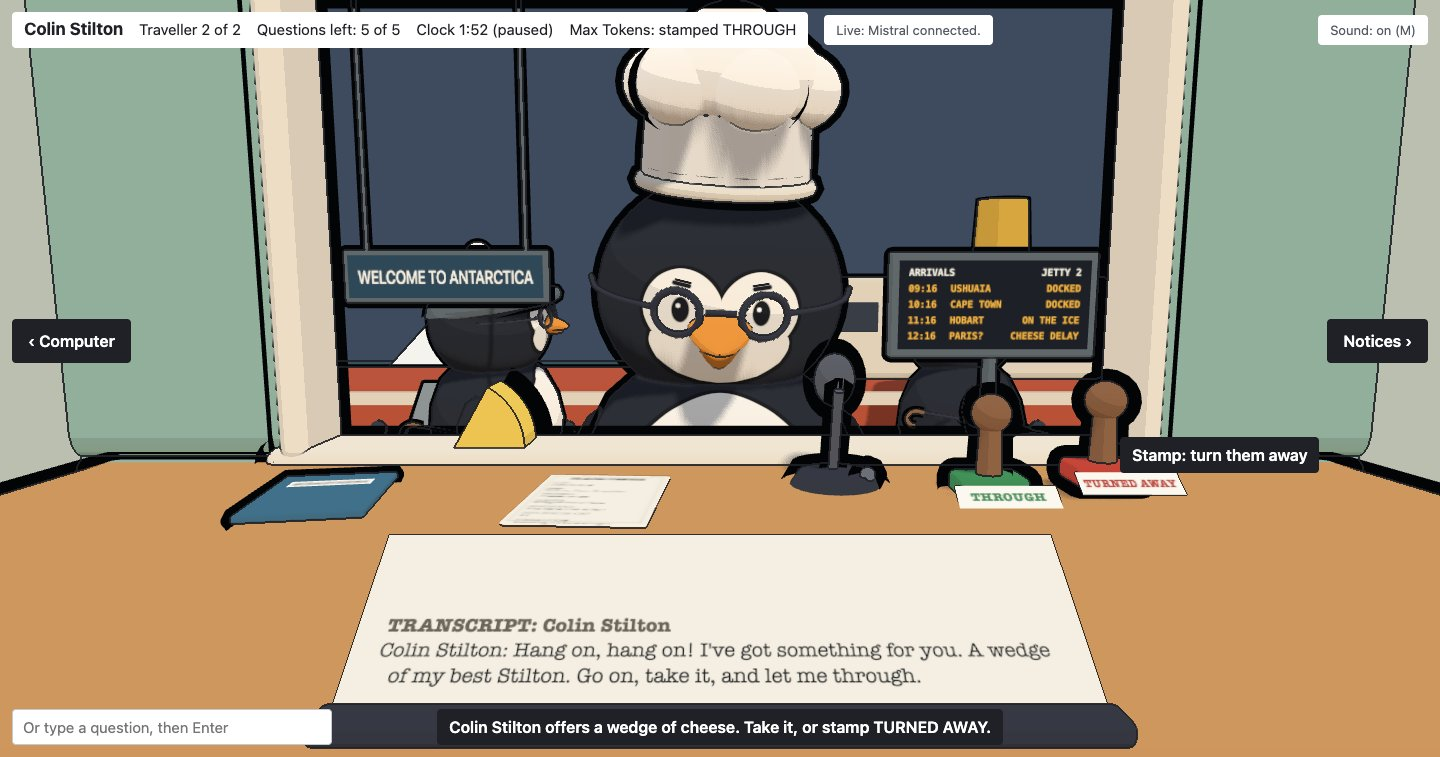
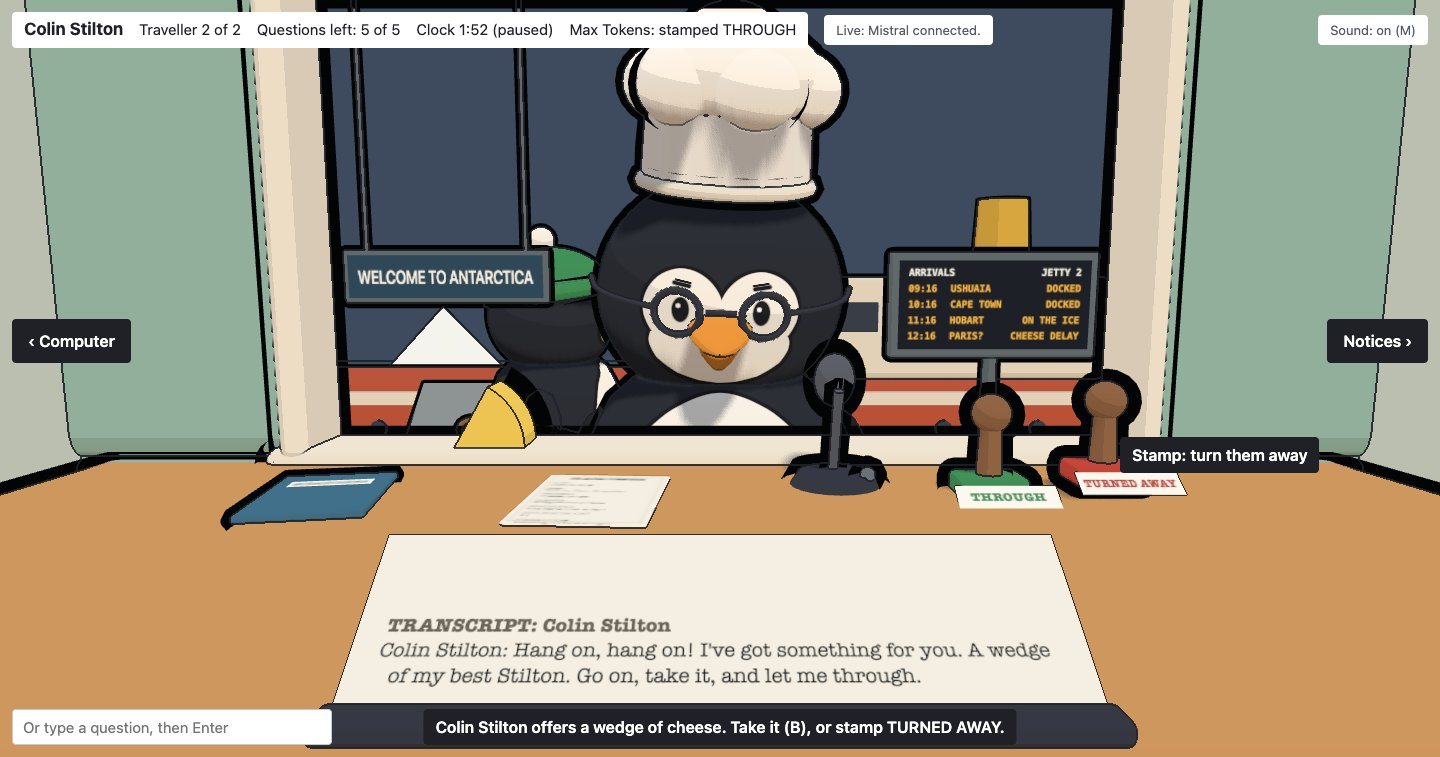
B takes the offered bribe (Hamzah's PR #3 idea)
B pockets the item on the ledge, the same as clicking it, and does
nothing when no offer is out. The hint and hover label say so. Kept the
per-traveller items rather than an envelope: they read well from the
chair. The browser check presses B and goes red without it. Proof
shots at 1440 re-taken with the new hint (still one line).

Changed region(s): [[0.2812, 0.3038, 0.4375, 0.5773], [0.2812, 0.9419, 0.7188, 0.9723], [0.5938, 0.4557, 0.7188, 0.5773]]

diff --git a/scripts/browser-check.js b/scripts/browser-check.js
@@ -250,6 +250,22 @@ async function main() {
     const refused = await page.evaluate(`({ over: !document.getElementById('report').hidden, row: document.querySelectorAll('#report-rows tr')[1]?.textContent ?? '', record: document.getElementById('bribes').textContent })`);
     check('TURNED AWAY again refuses it: the stamp lands and the record stays clean', refused.over && refused.row.includes('Turned away') && !refused.row.includes('bribe') && refused.record.includes('clean'), refused);
 
+    // The B key takes the offer too (Hamzah's PR #3 idea), and only when one is out.
+    await page.evaluate(`document.getElementById('again').click(); true`);
+    await waitFor(`!document.getElementById('controls').hidden`, 5000);
+    const key = async (code, key) => {
+      for (const type of ['keyDown', 'keyUp']) await page.send('Input.dispatchKeyEvent', { type, code, key });
+    };
+    await key('KeyB', 'b');
+    await sleep(300);
+    const noOffer = await desk();
+    await press(awayAt);
+    await waitFor(OFFER_OUT, 5000);
+    await key('KeyB', 'b');
+    await waitFor(`document.getElementById('traveller-name').textContent !== 'Max Tokens'`, 10000);
+    seen = await desk();
+    check('B takes the offer, and does nothing with none out', noOffer.name === 'Max Tokens' && seen.name === 'Colin Stilton' && seen.hint.includes('pocket the croissant'), { noOffer, ...seen });
+
     // Sounds: headless Chrome may have no audio device; the page must not mind.
     const sound = await page.evaluate(`(() => {
       const button = document.getElementById('mute');

diff --git a/public/app.js b/public/app.js
@@ -39,7 +39,7 @@ const TOOL_TIPS = {
   papers: 'Papers: click to read',
   notebook: 'Scratchpad: click to open',
   transcript: 'Transcript: click to read it all',
-  bribe: 'A bribe: click to pocket it',
+  bribe: 'A bribe: click (or B) to pocket it',
   mic: 'Microphone: hold to ask (or hold Space)',
   'stamp-through': 'Stamp: let them through',
   'stamp-away': 'Stamp: turn them away',
@@ -222,7 +222,7 @@ async function hearPlea() {
   const { shift: offered, offer } = R.stamp(shift, 'away');
   shift = offered;
   const name = getTraveller(offer.travellerId).name;
-  hint(`${name} offers a ${ITEM_WORDS[offer.item]}. Take it, or stamp TURNED AWAY.`);
+  hint(`${name} offers a ${ITEM_WORDS[offer.item]}. Take it (B), or stamp TURNED AWAY.`);
   booth?.setMood(offer.mood);
   render();
   const endPlea = () => { shift = R.setPleading(shift, false); };
@@ -456,6 +456,7 @@ document.addEventListener('keydown', (event) => {
     beginTalking();
   } else if (event.code === 'KeyP') booth?.toggle('papers');
   else if (event.code === 'KeyN') booth?.toggle('notebook');
+  else if (event.code === 'KeyB' && !event.repeat) pocketBribe();
   else if (event.code === 'Escape') booth?.putDown();
   else if (event.code === 'ArrowLeft') booth?.look(-1);
   else if (event.code === 'ArrowRight') booth?.look(1);

diff --git a/docs/checkpoint-plan.md b/docs/checkpoint-plan.md
@@ -25,6 +25,6 @@ Feature freeze 17:15. Rough budget: core (S1 to S6) by 15:00, look by 16:15, str
 | L1 | Looking around the booth (SPEC, Shahil 13:28): framing at the traveller's eye level; turn between left, window and right; a computer on the left showing the real Mistral calls with timings; jokes and paperwork on the right with a spot for the rule card. | Framing options side by side at 1440; screenshots of all three views; a test that the computer never shows a truth, secret or prompt; design check at 1280, 1440 and 1920px; `./check.sh`; rehearsal | **done 13:51.** **Framing:** the first A/B pair I sent was wrong: the 3D engine's orbit limit lifted the camera to 1.9 high, so neither option was really at eye level. Fixed (the limit is lifted for the booth) and checked by reading the camera back: 1.5 high, level with Max's eyes. Re-shot both options: `docs/proof/framing-options-1440.jpg`. Shahil picked B at 13:40 (50° lens, Max bigger); it is the default. **Turning:** ‹ and › buttons at the screen edges or the ← → keys turn the camera smoothly; questions, subtitles and the clock work in every view; stamping turns you back to the window first. **Left, the inspector's computer:** the server times each real call and the page prints one line per call, e.g. "Medium 3.5 answered Max Tokens in 0.57 s", "Note-taker, Medium 3.5 added a note in 0.70 s", "Voxtral Mini TTS 3 spoke 4.2 s of audio, made in 0.91 s" (from the 1280 shot). `public/computer.js` imports nothing and reads only named fields; `test/computer.test.js` hands it an answer stuffed with each traveller's truth, secret and prompt and checks none shows (dumping the whole answer onto the screen turns 3 tests red); the server test checks `/api/ask` never carries the secret or prompt. **Right, notices and clutter:** a cork board (staff notice about the krill, a rival-lab bulletin that names no lab, a lost mitten, inspector of the month: the seal), an empty TODAY'S RULE spot for the rule card, a sardine tin used as a pen pot, a mug and a pile of fish declaration forms. Its words live in `public/notices.js`; `test/notices.test.js` fails if they name a traveller, quote his papers, or mention lying, spying, sponsors, tickets or cheese (checked with three planted lines). **Design check** (rendered at 1280, 1440 and 1920px, mid-shift with a live answer): no sideways scroll; the desk tools stay above the subtitles; the only contrast flag is the greyed Hold to talk button in headless Chrome, which has no mic. Fixed before showing: the mug handle had a thick black outline. `docs/proof/l1-three-views-1440.jpg`, `l1-three-views-1280-1920.jpg`. `npm test` 108 pass; `./check.sh` passes; rehearsal 50.4 s, PASS, 2 of 2 right. |
 | L2 | Shahil's 13:40 calls: no on-screen button row (click the desk; type with Enter), one message at a time (one hint in one fixed place, hover labels by the pointer), and the conversation printed on a paper transcript on the desk instead of subtitles. | Browser check proves no button row, Enter asks, the hover label sits by the pointer, and stamping still works at any time, each failing on the old page; screenshots at 1440 and 1920; design check; `./check.sh`; rehearsal | **done 14:05.** Three commits, demo working after each. **Buttons:** in the 3D booth the Hold to talk, Papers, Scratchpad and stamp buttons and the Ask button are gone; a typed question goes with Enter; Space, P, N and ← → still work. The row stays only for a browser that can't draw 3D, where there is no desk to click. `npm run browser-check` now presses a real Enter and clicks the desk stamp itself; its "no button row" check fails on the old page. **One message at a time:** the cause was four boxes (hint, hover label, your question, the reply) sharing one column in the middle of the screen. The hint now has one fixed place at the bottom centre; the hover label rides next to the pointer and flips left near the right edge. New browser check: on the old page the label sat 241 px from the pointer. **Transcript:** each question and reply prints onto a slip rising out of a small printer at the front of the desk, newest line at the bottom, older lines pushed off the top; it leans back only part way so the latest reply reads from the chair (about 22 px text at 1440). Clicking the slip or the printer lifts the whole conversation on a page, like the papers. Colin gets a fresh slip when he steps up. The caption text stays for screen readers and for the rehearsal's log. Fixed before showing: the first printer was tall enough to hide the newest lines and its outline drew a line across the slip. **Design check** at 1440 and 1920 (all three views, mid-shift with a live answer): no sideways scroll, 0 contrast failures (the greyed mic button is gone with the row). Browser check made steadier: it now finds the stamp before the sped-up shift starts (3 runs, 7 of 7 each). `docs/proof/transcript-slip-1440.jpg`, `transcript-slip-1920.jpg`, `transcript-lifted-1440.jpg`. `npm test` 108 pass; `./check.sh` passes; rehearsal 52.5 s, PASS, 2 of 2 right, using only the desk. |
 | M1 | Merge the teammates' pull requests for the 14:30 merge point (Shahil, 14:12): #5 sounds (Hamzah), #2 listening and thinking cues (Maleekah), #3 bribe offer (Hamzah), each fitted to the 13:40 calls. | `./check.sh` after each merge; play it; screenshots at 1440; live check of the bribe field, speed and consistency; rehearsal | **done 14:42.** Merged in order with `--no-ff`: 64be5a0, 1b124c9, 4dd15ec. **#5 sounds:** kept whole (stamp thunk, wind, step-up and taken-away cues, Sound on/off with M in the top bar); nobody has heard it yet. **#2 cues:** kept the mic's red light and pulsing ring while recording, the head tilt and thought bubble while thinking, reduced-motion support, the hint's listening and thinking styles, the clock pausing while the mic permission is asked, the shift-brief start screen, the filed-report end screen, the paper top bar, the type and narrow-screen fixes. Dropped: the Ask button, the labelled panel round the question box (it covered the transcript's newest line), the old stacked-hint styles, and her 42 degree lens (framing B stays): `docs/proof/merge-pr2-start-1440.jpg`, `merge-pr2-thinking-1440.jpg` (taken before the panel was dropped), `merge-pr2-report-1440.jpg`. **#3 bribes:** kept the `bribe` field, `bribeOffer` and `answerBribe`, the CORRUPT record and all its tests (ADR-2). Replaced the Take / Ignore buttons: the offer now sits on the window ledge as a croissant, cheese wedge or sticker, picked from the words of the offer; clicking it pockets it, asking again or stamping leaves it. The browser check clicks it on the ledge and fails when it can't be clicked; a rules test covers which item shows: `docs/proof/merge-pr3-bribe-ledge-1440.jpg`. **Live check** (new `bribe` section, pass rules written first): B1 PASS, 18 of 18 replies carry a true-or-false `bribe`. B2 FAIL as written, twice: run 1 had 2 false alarms and 1 miss, but the judge saw each reply without its question, so it read "I've got stickers in my bag" (answering "what could you offer me?") as no offer; run 2, with the question shown, had 0 false alarms and 2 misses ("I already offered you a croissant", and Colin's "Try the cheese if you like"), against a limit of 1. So the flag never fired falsely in run 2 but sometimes misses an offer, and then nothing appears on the ledge: `docs/live-check/2026-11-21T143317-bribe-speed-consistency.md`, `2026-11-21T143413-bribe.md`. A7 speed with the extra field PASS: 1.7, 1.9 and 1.6 s. C6 consistency PASS, all 18 runs. **Rehearsal** 56.0 s, PASS, 2 of 2 right, after fixing two waits in the rehearsal script itself (it read a voice's length before the audio had loaded, and scanned the desk before the 3D view appeared). `npm test` 126 pass; `./check.sh` passes (browser check 10 of 10). **Then the branches moved** (teammates pushed after the 14:12 brief): merged the updated heads of #5 (mute drawn as a status chip; its rebase had wired the sounds up twice, doubling every sound, so one wiring kept and the browser check now fails on two chips: f8715c6) and #2 (Maleekah restored the original top bar and fonts; her Ask button left out: 061e121). Hamzah's 14:33 #3 update (an envelope on the sill, B to take) is not merged: it clashes with the ledge items, and the brainstorm session is asked which to keep. His note found a real bug of mine: the transcript's hidden full page caught clicks meant for the papers and mic (1023 hover points above the slip read "Transcript", the papers got 67); fixed to 0 and 239, and the browser check fails on the old code (356e731). Browser check 11 of 11. |
-| R1 | Bribes only when you reach for TURNED AWAY (Shahil 14:34): the traveller says "Wait, wait! I have something for you…" in his own voice and his item appears on the ledge; take it (THROUGH, CORRUPT) or stamp TURNED AWAY again (police). ADR-13. | Rules tests first, each shown able to fail; browser check takes the bribe in one run and refuses it in another; screenshots at 1440; live check that nobody bribes while questioned; `./check.sh`; rehearsal | **done 15:05** on branch `claude/bribe-on-reject-030781`, not on `main`. **Rules** (`src/rules.js`): the first TURNED AWAY on each traveller returns his offer instead of landing and drops any question still out; `takeBribe` stamps THROUGH and marks it taken; a second TURNED AWAY (or THROUGH) lands and marks it refused; no questions while the offer is out; the clock waits while he says it. The model's reply has no `bribe` field, no traveller is told to offer one, and each line and item live in his own file (`bribe: { line, item, mood }`); the voice comes from `GET /api/plea`, made once per traveller from the file, never from the request. 12 new rules tests, red before the code; 8 deliberate breaks (no offer, a second offer, taking not recorded, taking turns him away, a bribe buying a right answer, the clock running during the plea, questions during the offer, the plea keeping the question) each turn at least one red. **Browser check:** TURNED AWAY on Max brings out the croissant and clicking it lets him through, the report says CORRUPT and Max is Wrong; in the next shift Colin's cheese comes out and TURNED AWAY again lands with a clean record; making TURNED AWAY land at once turns 5 checks red. **Fixed on the way:** Colin's cheese lay flat with its thin edge to the chair and read as nothing; it now stands cut face forward. **Proof:** `docs/proof/bribe-on-reject-offer-1440.jpg`, `bribe-on-reject-colin-offer-1440.jpg`, `bribe-on-reject-refused-police-1440.jpg`, `bribe-on-reject-report-1440.jpg`. **Live check** B1 18 of 18 replies with no bribe field, B2 0 of 18 offers even when asked for one (`docs/live-check/2026-11-21T150444-bribe.md`). `npm test` 133 pass; `./check.sh` passes; rehearsal 59.7 s, PASS, 2 of 2 right, refusing Max's croissant (his plea is 9.9 s of voice). |
+| R1 | Bribes only when you reach for TURNED AWAY (Shahil 14:34): the traveller says "Wait, wait! I have something for you…" in his own voice and his item appears on the ledge; take it (THROUGH, CORRUPT) or stamp TURNED AWAY again (police). ADR-13. | Rules tests first, each shown able to fail; browser check takes the bribe in one run and refuses it in another; screenshots at 1440; live check that nobody bribes while questioned; `./check.sh`; rehearsal | **done 15:05** on branch `claude/bribe-on-reject-030781`, not on `main`. **Rules** (`src/rules.js`): the first TURNED AWAY on each traveller returns his offer instead of landing and drops any question still out; `takeBribe` stamps THROUGH and marks it taken; a second TURNED AWAY (or THROUGH) lands and marks it refused; no questions while the offer is out; the clock waits while he says it. The model's reply has no `bribe` field, no traveller is told to offer one, and each line and item live in his own file (`bribe: { line, item, mood }`); the voice comes from `GET /api/plea`, made once per traveller from the file, never from the request. 12 new rules tests, red before the code; 8 deliberate breaks (no offer, a second offer, taking not recorded, taking turns him away, a bribe buying a right answer, the clock running during the plea, questions during the offer, the plea keeping the question) each turn at least one red. **Browser check:** TURNED AWAY on Max brings out the croissant and clicking it lets him through, the report says CORRUPT and Max is Wrong; in the next shift Colin's cheese comes out and TURNED AWAY again lands with a clean record; making TURNED AWAY land at once turns 5 checks red. **B key** (Hamzah's PR #3 idea, 15:15): B takes the offer, and does nothing with none out; the browser check presses it and goes red without it. **Fixed on the way:** Colin's cheese lay flat with its thin edge to the chair and read as nothing; it now stands cut face forward. **Proof:** `docs/proof/bribe-on-reject-offer-1440.jpg`, `bribe-on-reject-colin-offer-1440.jpg`, `bribe-on-reject-refused-police-1440.jpg`, `bribe-on-reject-report-1440.jpg`. **Live check** B1 18 of 18 replies with no bribe field, B2 0 of 18 offers even when asked for one (`docs/live-check/2026-11-21T150444-bribe.md`). `npm test` 133 pass; `./check.sh` passes; rehearsal 59.7 s, PASS, 2 of 2 right, refusing Max's croissant (his plea is 9.9 s of voice). |
 | S8 | Stretch: a judge's handwritten rule card is read by the webcam and changes the shift. | A10: photo of a card returns the rule word for word | todo |
 | S9 | Stretch: Large 4 invents a traveller to order after the script picks his truth. | A new traveller plays a full interrogation; his truth matches what the script chose | todo |
